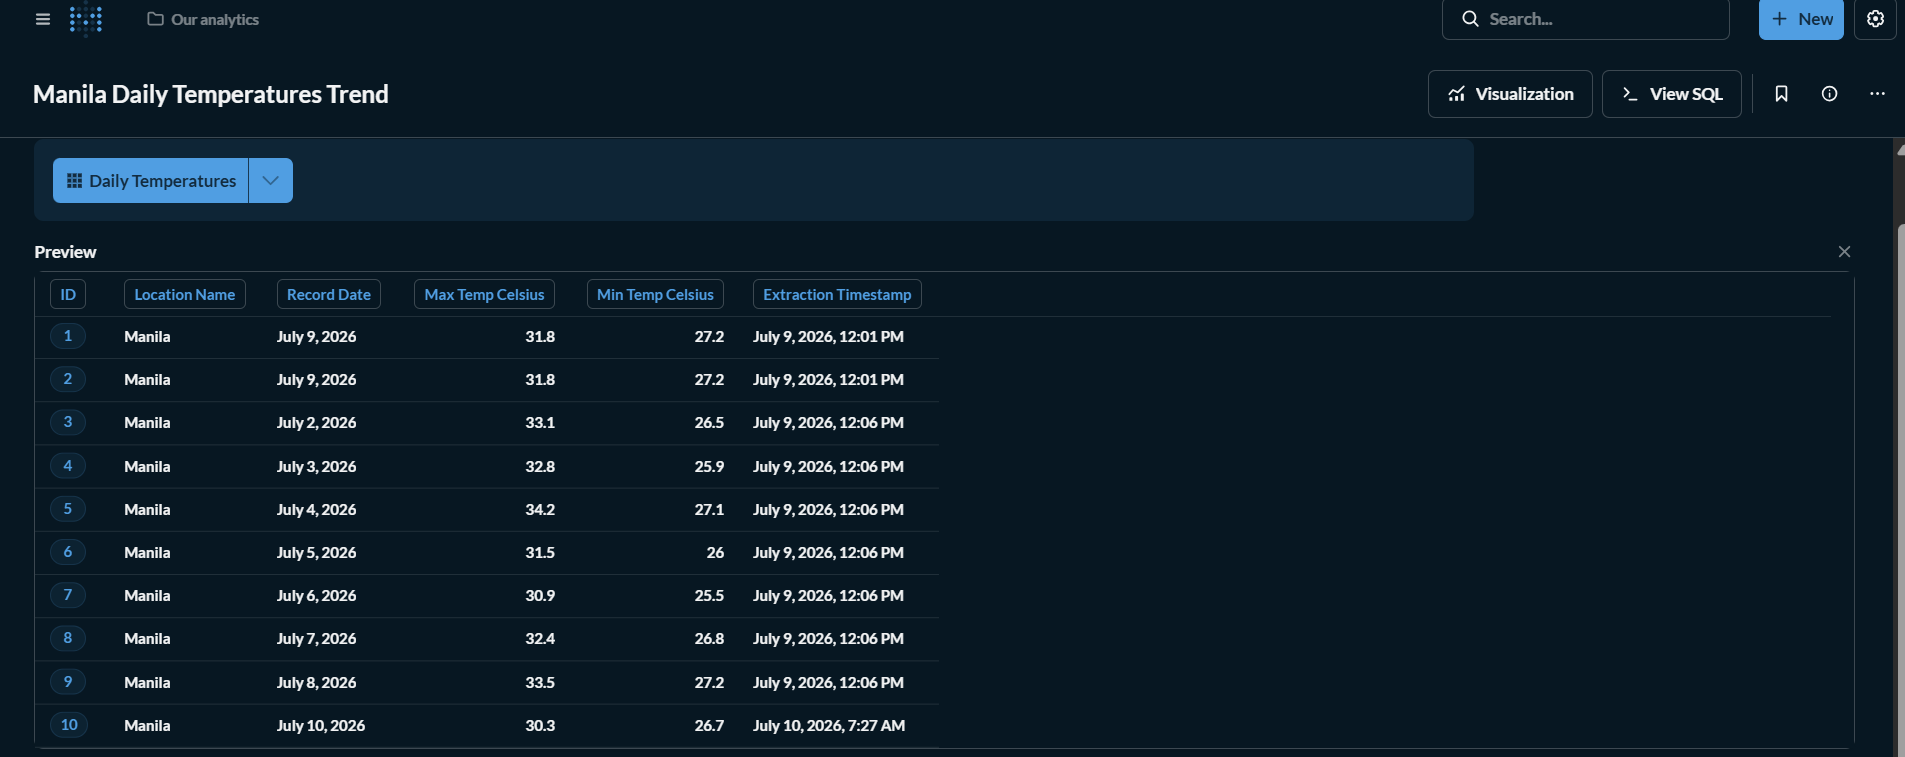
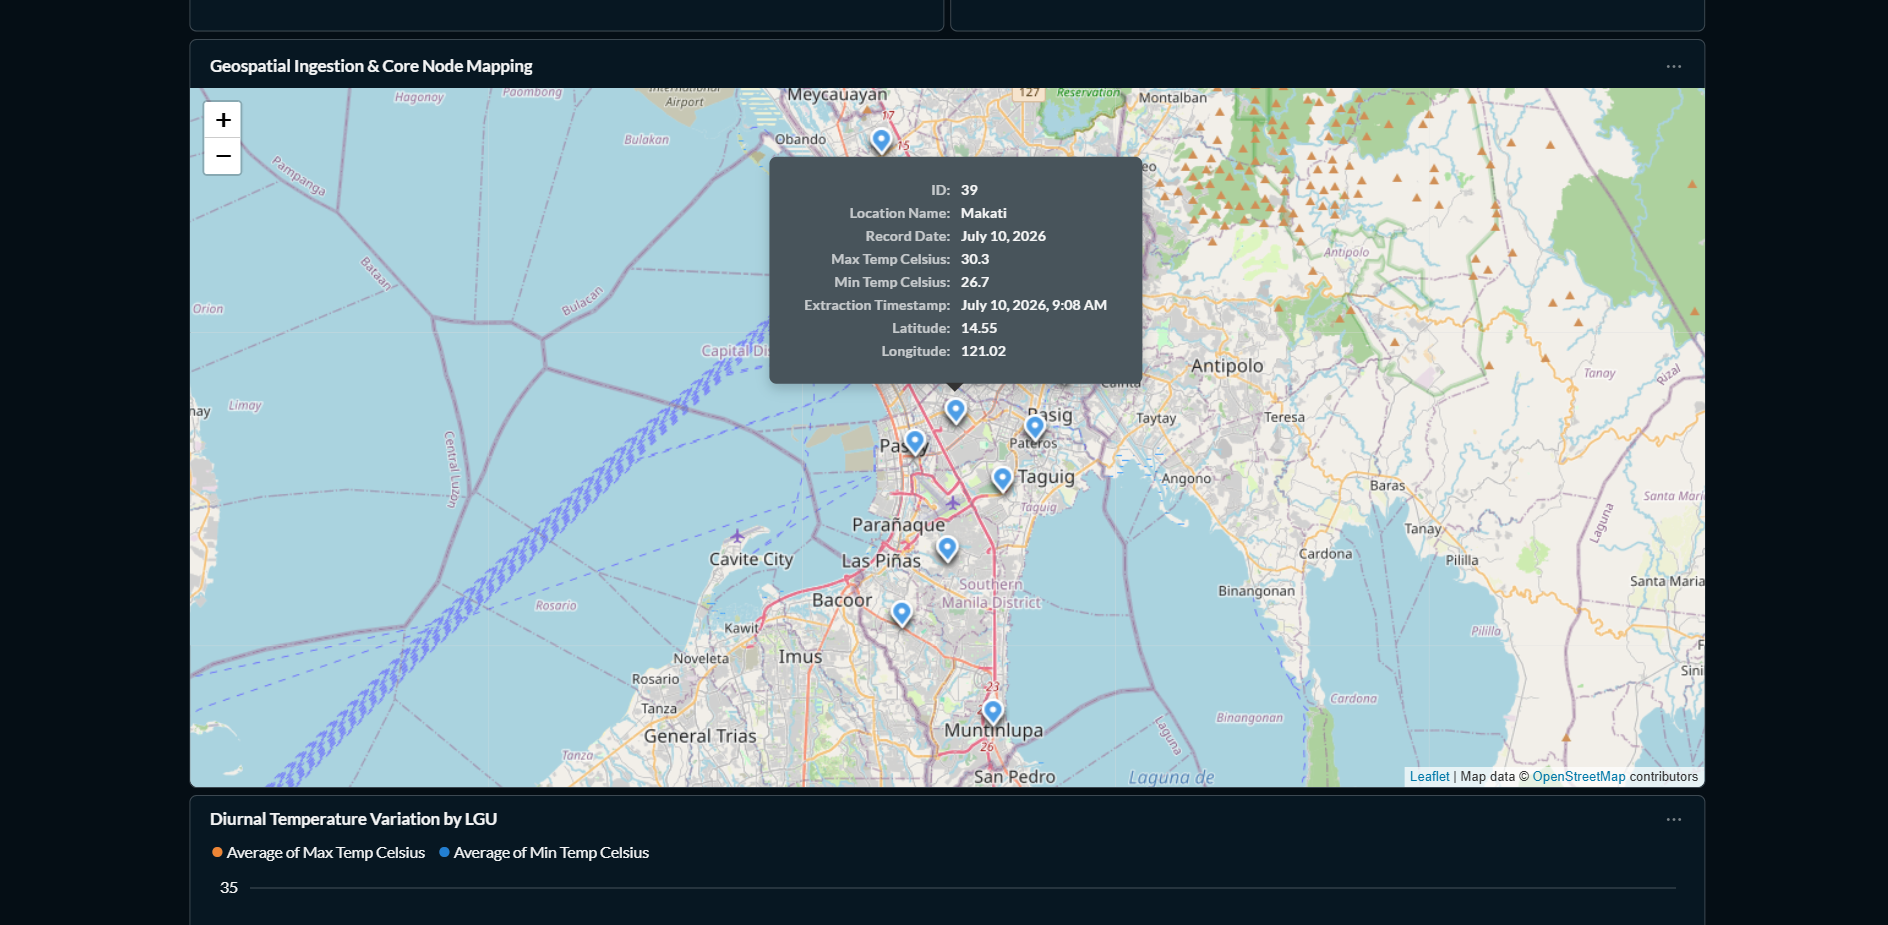
initialize NCR weather ETL pipeline with Airflow, Postgres, and Metabase

diff --git a/dags/weather_dag.py b/dags/weather_dag.py
@@ -1,97 +1,148 @@
 from airflow import DAG
 from airflow.operators.python import PythonOperator
+from airflow.providers.postgres.hooks.postgres import PostgresHook
 from datetime import datetime, timedelta
 import requests
-import psycopg2
-import os
-from dotenv import load_dotenv
 
-load_dotenv('/opt/airflow/.env')
+# ==========================================
+# SECTION 1: Configuration & Static Data
+# ==========================================
 
-# --- 1. EXTRACT TASK ---
-def extract_weather_data(**kwargs):
-    print("Extracting data from Open-Meteo API...")
-    url = "https://api.open-meteo.com/v1/forecast?latitude=14.6042&longitude=120.9822&daily=temperature_2m_max,temperature_2m_min&timezone=Asia%2FSingapore"
-    response = requests.get(url)
-    
-    if response.status_code == 200:
-        return response.json()
-    else:
-        raise Exception("API Extraction Failed")
+# Complete list of NCR Cities and Municipality (Pateros) with coordinates
+NCR_CITIES = {
+    "Manila": {"lat": 14.5995, "lon": 120.9842},
+    "Quezon City": {"lat": 14.6760, "lon": 121.0437},
+    "Caloocan": {"lat": 14.6488, "lon": 120.9713},
+    "Las Piñas": {"lat": 14.4445, "lon": 120.9939},
+    "Makati": {"lat": 14.5547, "lon": 121.0244},
+    "Malabon": {"lat": 14.6621, "lon": 120.9570},
+    "Mandaluyong": {"lat": 14.5794, "lon": 121.0359},
+    "Marikina": {"lat": 14.6507, "lon": 121.1029},
+    "Muntinlupa": {"lat": 14.3907, "lon": 121.0450},
+    "Navotas": {"lat": 14.6666, "lon": 120.9427},
+    "Parañaque": {"lat": 14.4793, "lon": 121.0198},
+    "Pasay": {"lat": 14.5378, "lon": 121.0014},
+    "Pasig": {"lat": 14.5764, "lon": 121.0851},
+    "San Juan": {"lat": 14.6042, "lon": 121.0300},
+    "Taguig": {"lat": 14.5176, "lon": 121.0509},
+    "Valenzuela": {"lat": 14.7011, "lon": 120.9830},
+    "Pateros": {"lat": 14.5454, "lon": 121.0687}
+}
 
-# --- 2. TRANSFORM TASK ---
-def transform_data(**kwargs):
-    ti = kwargs['ti']
-    raw_data = ti.xcom_pull(task_ids='extract_weather_data')
-    
-    daily_data = raw_data.get('daily', {})
-    
-    transformed_record = {
-        'location': 'Manila',
-        'date': daily_data.get('time', [])[0],
-        'max_temp': daily_data.get('temperature_2m_max', [])[0],
-        'min_temp': daily_data.get('temperature_2m_min', [])[0]
-    }
-    
-    return transformed_record
+# ==========================================
+# SECTION 2: Extract and Transform Task
+# ==========================================
 
-# --- 3. LOAD TASK ---
-def load_data(**kwargs):
-    ti = kwargs['ti']
-    record = ti.xcom_pull(task_ids='transform_data')
-    
-    conn = psycopg2.connect(
-        host="postgres_db",
-        port="5432",
-        database=os.getenv("DB_NAME"),
-        user=os.getenv("DB_USER"),
-        password=os.getenv("DB_PASSWORD")
-    )
-    cursor = conn.cursor()
-    
-    insert_query = """
-        INSERT INTO daily_temperatures (location_name, record_date, max_temp_celsius, min_temp_celsius)
-        VALUES (%s, %s, %s, %s);
+def extract_and_transform_weather(**kwargs):
     """
-    cursor.execute(insert_query, (record['location'], record['date'], record['max_temp'], record['min_temp']))
-    conn.commit()
+    Loops through the NCR dictionary, extracts live data from Open-Meteo, 
+    transforms it into a structured dictionary, and prepares it for loading.
+    """
+    all_city_data = []
     
-    cursor.close()
-    conn.close()
-    print("Success! Data loaded via Airflow.")
+    for city, coords in NCR_CITIES.items():
+        lat = coords["lat"]
+        lon = coords["lon"]
+        
+        # Open-Meteo API URL strictly formatted for this specific location
+        api_url = f"https://api.open-meteo.com/v1/forecast?latitude={lat}&longitude={lon}&daily=temperature_2m_max,temperature_2m_min&timezone=Asia%2FSingapore"
+        
+        response = requests.get(api_url)
+        data = response.json()
+        
+        # Isolate the required metrics
+        daily_record = {
+            "location_name": city,
+            "latitude": lat,
+            "longitude": lon,
+            "record_date": data['daily']['time'][0],
+            "max_temp_celsius": data['daily']['temperature_2m_max'][0],
+            "min_temp_celsius": data['daily']['temperature_2m_min'][0]
+        }
+        
+        all_city_data.append(daily_record)
+        
+    # Push the transformed list of 17 cities to XCom so the load task can access it
+    kwargs['ti'].xcom_push(key='weather_data', value=all_city_data)
 
-# --- 4. DEFINE THE DAG ---
+# ==========================================
+# SECTION 3: Load Task
+# ==========================================
+
+def load_weather_to_postgres(**kwargs):
+    """
+    Pulls the transformed data from XCom and executes an executemany 
+    SQL insertion into the PostgreSQL data warehouse.
+    """
+    # Pull data from the previous task
+    weather_data = kwargs['ti'].xcom_pull(key='weather_data', task_ids='extract_transform_task')
+    
+    # Establish connection using Airflow's built-in PostgresHook
+    # Note: Make sure your Airflow connection ID is named 'postgres_default' in the UI
+    pg_hook = PostgresHook(postgres_conn_id='postgres_default')
+    
+    # Prepare the SQL query map
+    insert_query = """
+        INSERT INTO daily_temperatures 
+        (location_name, latitude, longitude, record_date, max_temp_celsius, min_temp_celsius)
+        VALUES (%s, %s, %s, %s, %s, %s);
+    """
+    
+    # Convert list of dictionaries into a list of tuples for psycopg2 insertion
+    records_to_insert = [
+        (
+            record['location_name'], 
+            record['latitude'], 
+            record['longitude'], 
+            record['record_date'], 
+            record['max_temp_celsius'], 
+            record['min_temp_celsius']
+        )
+        for record in weather_data
+    ]
+    
+    # Execute batch insert for optimal performance
+    pg_hook.insert_rows(
+        table="daily_temperatures",
+        rows=records_to_insert,
+        target_fields=["location_name", "latitude", "longitude", "record_date", "max_temp_celsius", "min_temp_celsius"],
+        replace=False
+    )
+
+# ==========================================
+# SECTION 4: DAG Definition & Orchestration
+# ==========================================
+
 default_args = {
     'owner': 'data_engineer',
+    'depends_on_past': False,
+    'start_date': datetime(2026, 1, 1),
+    'email_on_failure': False,
+    'email_on_retry': False,
     'retries': 1,
     'retry_delay': timedelta(minutes=5),
 }
 
 with DAG(
-    'daily_weather_etl',
+    'ncr_weather_etl_pipeline',
     default_args=default_args,
-    start_date=datetime(2024, 1, 1),
-    schedule_interval='@daily', # Run automatically once a day
-    catchup=False
+    description='Extracts weather for NCR cities and loads to Postgres',
+    schedule_interval='@daily',
+    catchup=False,
 ) as dag:
 
-    task_extract = PythonOperator(
-        task_id='extract_weather_data',
-        python_callable=extract_weather_data,
+    # Define Tasks
+    extract_transform_task = PythonOperator(
+        task_id='extract_transform_task',
+        python_callable=extract_and_transform_weather,
         provide_context=True
     )
 
-    task_transform = PythonOperator(
-        task_id='transform_data',
-        python_callable=transform_data,
+    load_task = PythonOperator(
+        task_id='load_task',
+        python_callable=load_weather_to_postgres,
         provide_context=True
     )
 
-    task_load = PythonOperator(
-        task_id='load_data',
-        python_callable=load_data,
-        provide_context=True
-    )
-
-    # Set the pipeline execution order
-    task_extract >> task_transform >> task_load
+    # Define Workflow Dependencies
+    extract_transform_task >> load_task

diff --git a/README.md b/README.md
@@ -1,14 +1,14 @@
-# 🌤️ Automated Weather ETL Pipeline
+# 🌤️ Automated NCR Regional Weather ETL Pipeline
 
-An end-to-end, containerized data pipeline that extracts live weather data, transforms it via Apache Airflow, and loads it into a PostgreSQL data warehouse for visualization in Metabase.
+An end-to-end, containerized data pipeline that extracts live weather data across all 17 municipalities of the National Capital Region (NCR), transforms it via Apache Airflow, and loads it into a PostgreSQL data warehouse for visualization in Metabase.
 
 ## 🏗️ Project Architecture
 
-* **Extract:** Python hits the Open-Meteo REST API to fetch daily temperature data for Manila.
-* **Transform:** Python parses the nested JSON payload and isolates the required metrics (Max/Min Celsius, Dates).
+* **Extract:** Python hits the Open-Meteo REST API to fetch daily temperature and geospatial data for all 17 NCR cities.
+* **Transform:** Python parses the nested JSON payload and isolates the required metrics (Max/Min Celsius, Dates, Latitude, and Longitude).
 * **Load:** The cleaned data is loaded into a strictly typed PostgreSQL database.
 * **Orchestrate:** Apache Airflow schedules and monitors the ETL process to run automatically on a daily schedule.
-* **Visualize:** Metabase connects directly to the warehouse to serve a live, auto-updating dashboard.
+* **Visualize:** Metabase connects directly to the warehouse to serve a live, auto-updating dashboard mapping the entire region.
 
 ## 💻 Tech Stack
 
@@ -44,5 +44,6 @@ docker-compose up -d --build
 * **Metabase:** http://localhost:3000
 
 ## 📊 Dashboard Snapshot
-![Metabase Dashboard 1](assets/dashboard_snapshot_1.png)
-![Metabase Dashboard 2](assets/dashboard_snapshot_2.png)
+![Metabase Dashboard 1.1](assets/dashboard_snapshot_1.png)
+![Metabase Dashboard 1.2](assets/dashboard_snapshot_2.png)
+![Metabase Dashboard 1.3](assets/dashboard_snapshot_3.png)